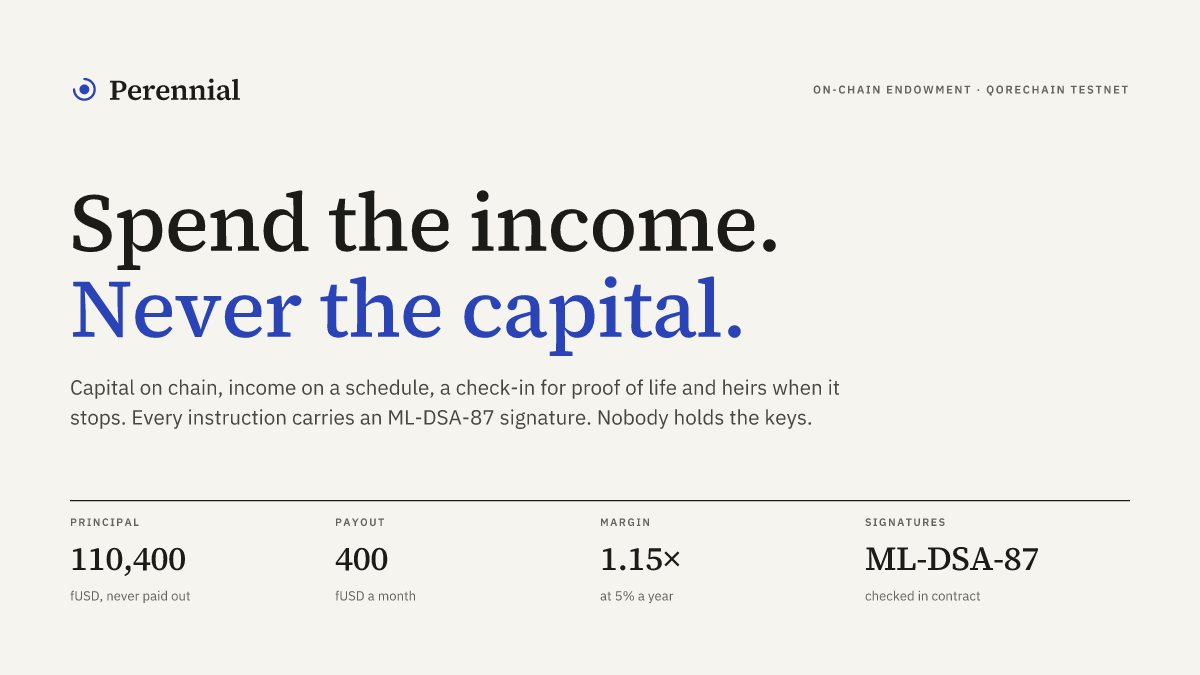
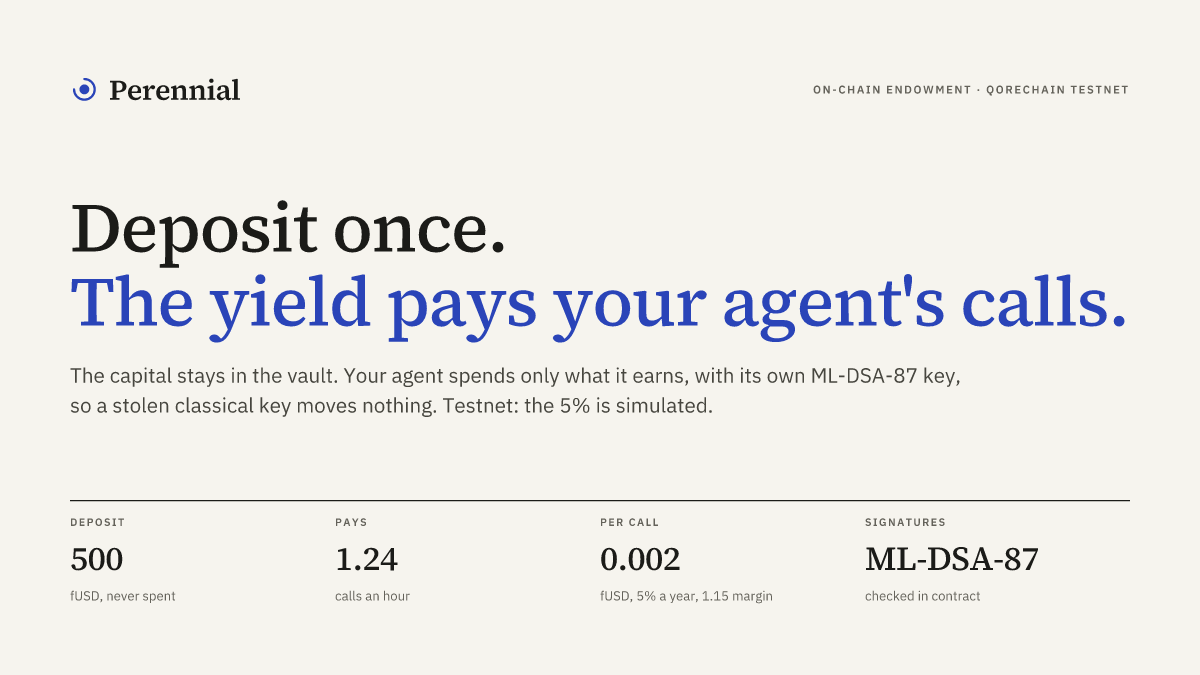
feat(brand): put the agent use case on the cover and link preview
The images now lead with a 500 fUSD deposit paying 1.24 calls of 0.002 fUSD
an hour and say the 5% is simulated; the page title and description match.

diff --git a/app/scripts/brand.ts b/app/scripts/brand.ts
@@ -122,22 +122,22 @@ function composition(width: number, height: number): Node {
       { display: "flex", flexDirection: "column", gap: 34 * s },
       h(
         "div",
-        { display: "flex", flexDirection: "column", fontFamily: "Serif", fontWeight: 500, fontSize: 132 * s, lineHeight: 1.04, color: color("ink"), letterSpacing: -2 * s },
-        h("div", {}, "Spend the income."),
-        h("div", { color: color("accent") }, "Never the capital."),
+        { display: "flex", flexDirection: "column", fontFamily: "Serif", fontWeight: 500, fontSize: 112 * s, lineHeight: 1.06, color: color("ink"), letterSpacing: -2 * s },
+        h("div", {}, "Deposit once."),
+        h("div", { color: color("accent") }, "The yield pays your agent's calls."),
       ),
       h(
         "div",
-        { fontSize: 33 * s, lineHeight: 1.45, color: color("ink-2"), maxWidth: 1240 * s },
-        "Capital on chain, income on a schedule, a check-in for proof of life and heirs when it stops. Every instruction carries an ML-DSA-87 signature. Nobody holds the keys.",
+        { fontSize: 33 * s, lineHeight: 1.45, color: color("ink-2"), maxWidth: 1440 * s },
+        "The capital stays in the vault. Your agent spends only what it earns, with its own ML-DSA-87 key, so a stolen classical key moves nothing. Testnet: the 5% is simulated.",
       ),
     ),
     h(
       "div",
       { display: "flex", borderTop: `${Math.max(1, 2 * s)}px solid ${color("rule-strong")}` },
-      figure("Principal", "110,400", "fUSD, never paid out", s),
-      figure("Payout", "400", "fUSD a month", s),
-      figure("Margin", "1.15×", "at 5% a year", s),
+      figure("Deposit", "500", "fUSD, never spent", s),
+      figure("Pays", "1.24", "calls an hour", s),
+      figure("Per call", "0.002", "fUSD, 5% a year, 1.15 margin", s),
       figure("Signatures", "ML-DSA-87", "checked in contract", s),
     ),
   );

diff --git a/app/index.html b/app/index.html
@@ -3,10 +3,10 @@
   <head>
     <meta charset="UTF-8" />
     <meta name="viewport" content="width=device-width, initial-scale=1.0" />
-    <title>Perennial · Spend the income. Never the capital.</title>
+    <title>Perennial · Deposit once. The yield pays your agent's calls.</title>
     <meta
       name="description"
-      content="An on-chain endowment: the capital is never paid out, the income arrives on a schedule, a check-in proves the beneficiary is there, and heirs take over when they stop. Every instruction needs an ML-DSA-87 signature. QoreChain testnet."
+      content="Deposit once; the yield pays your AI agent's inference, call by call. The capital is never spent, and every spend needs the agent's ML-DSA-87 signature. QoreChain testnet; the yield is simulated."
     />
     <meta name="theme-color" content="#f6f4ee" media="(prefers-color-scheme: light)" />
     <meta name="theme-color" content="#131311" media="(prefers-color-scheme: dark)" />
@@ -15,8 +15,8 @@
     <link rel="icon" href="/favicon.png" type="image/png" sizes="64x64" />
     <link rel="apple-touch-icon" href="/apple-touch-icon.png" />
     <meta property="og:type" content="website" />
-    <meta property="og:title" content="Perennial · Spend the income. Never the capital." />
-    <meta property="og:description" content="On-chain endowments with post-quantum signatures. Testnet." />
+    <meta property="og:title" content="Perennial · Deposit once. The yield pays your agent's calls." />
+    <meta property="og:description" content="500 fUSD at 5% pays a 0.002 fUSD inference call every hour. The capital is never spent. Testnet; yield simulated." />
     <meta property="og:image" content="/social.png" />
     <meta name="twitter:card" content="summary_large_image" />
   </head>
